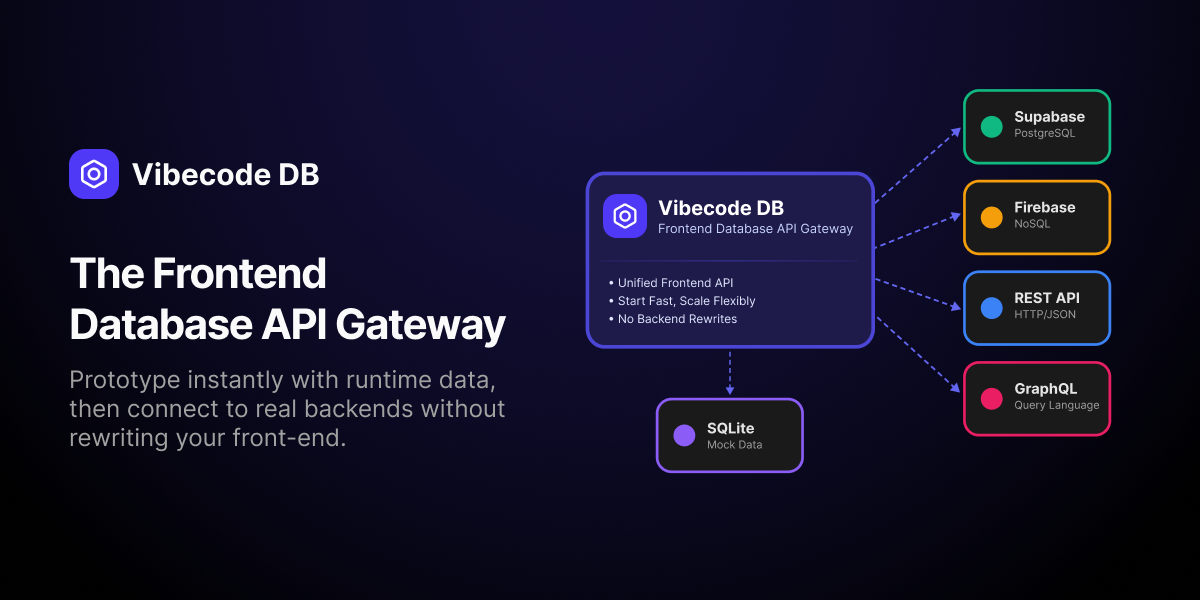
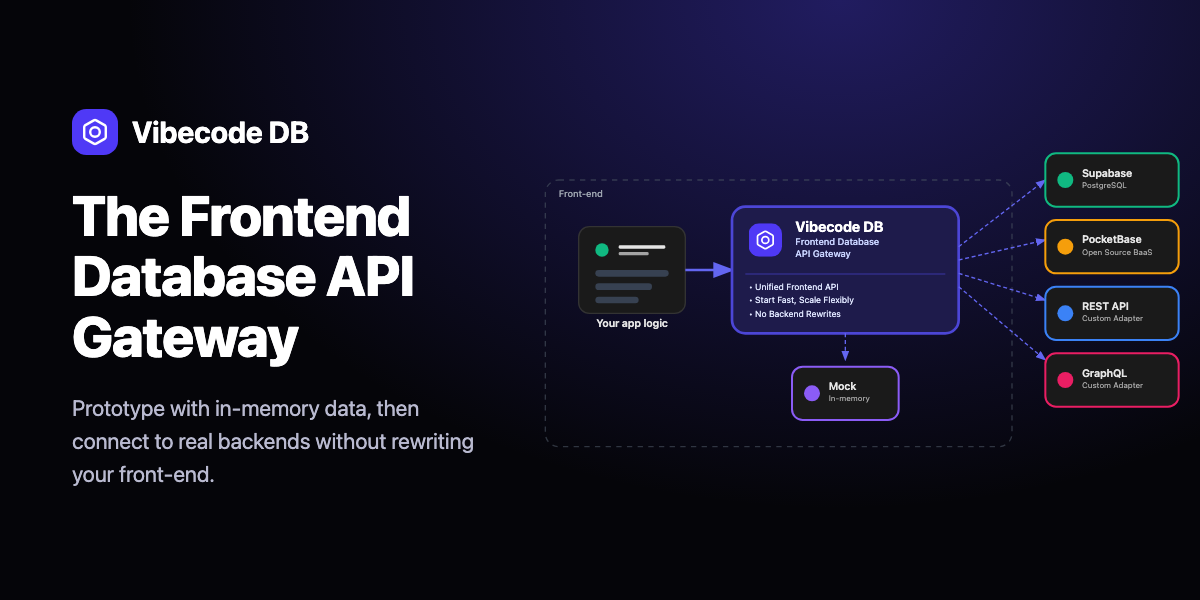
feat(landing): widen backend boxes and refresh OG image
- Diagram: widen the 4 backend boxes (160 -> 200) and extend the
  viewBox so PocketBase's "Open Source BaaS" subtitle no longer
  touches the box edge
- Replace og-image.png with a regenerated 1200x600 card matching the
  current diagram (PocketBase, REST/GraphQL as Custom Adapter, Mock /
  In-memory) and updated tagline

diff --git a/playground/src/components/landing/VibecodeDBDiagram.tsx b/playground/src/components/landing/VibecodeDBDiagram.tsx
@@ -13,7 +13,7 @@ export function VibecodeDBDiagram({
 }: VibecodeDBDiagramProps) {
   return (
     <svg
-      viewBox="80 120 950 480"
+      viewBox="80 120 990 480"
       xmlns="http://www.w3.org/2000/svg"
       className={className}
       width={width}
@@ -88,7 +88,7 @@ export function VibecodeDBDiagram({
 
       {/* Supabase */}
       <g transform="translate(850, 140)">
-        <rect x="0" y="0" width="160" height="80" rx="16" fill="#1a1a1a" stroke="#10b981" strokeWidth="3" />
+        <rect x="0" y="0" width="200" height="80" rx="16" fill="#1a1a1a" stroke="#10b981" strokeWidth="3" />
         <circle cx="30" cy="40" r="12" fill="#10b981" />
         <text x="55" y="35" fill="#e5e5e5" fontFamily="Inter, system-ui, sans-serif" fontSize="16" fontWeight="600">Supabase</text>
         <text x="55" y="52" fill="#a3a3a3" fontFamily="Inter, system-ui, sans-serif" fontSize="12">PostgreSQL</text>
@@ -96,7 +96,7 @@ export function VibecodeDBDiagram({
 
       {/* PocketBase */}
       <g transform="translate(850, 240)">
-        <rect x="0" y="0" width="160" height="80" rx="16" fill="#1a1a1a" stroke="#f59e0b" strokeWidth="3" />
+        <rect x="0" y="0" width="200" height="80" rx="16" fill="#1a1a1a" stroke="#f59e0b" strokeWidth="3" />
         <circle cx="30" cy="40" r="12" fill="#f59e0b" />
         <text x="55" y="35" fill="#e5e5e5" fontFamily="Inter, system-ui, sans-serif" fontSize="16" fontWeight="600">PocketBase</text>
         <text x="55" y="52" fill="#a3a3a3" fontFamily="Inter, system-ui, sans-serif" fontSize="12">Open Source BaaS</text>
@@ -104,7 +104,7 @@ export function VibecodeDBDiagram({
 
       {/* REST API (custom adapter) */}
       <g transform="translate(850, 340)">
-        <rect x="0" y="0" width="160" height="80" rx="16" fill="#1a1a1a" stroke="#3b82f6" strokeWidth="3" />
+        <rect x="0" y="0" width="200" height="80" rx="16" fill="#1a1a1a" stroke="#3b82f6" strokeWidth="3" />
         <circle cx="30" cy="40" r="12" fill="#3b82f6" />
         <text x="55" y="35" fill="#e5e5e5" fontFamily="Inter, system-ui, sans-serif" fontSize="16" fontWeight="600">REST API</text>
         <text x="55" y="52" fill="#a3a3a3" fontFamily="Inter, system-ui, sans-serif" fontSize="12">Custom Adapter</text>
@@ -112,7 +112,7 @@ export function VibecodeDBDiagram({
 
       {/* GraphQL (custom adapter) */}
       <g transform="translate(850, 440)">
-        <rect x="0" y="0" width="160" height="80" rx="16" fill="#1a1a1a" stroke="#e91e63" strokeWidth="3" />
+        <rect x="0" y="0" width="200" height="80" rx="16" fill="#1a1a1a" stroke="#e91e63" strokeWidth="3" />
         <circle cx="30" cy="40" r="12" fill="#e91e63" />
         <text x="55" y="35" fill="#e5e5e5" fontFamily="Inter, system-ui, sans-serif" fontSize="16" fontWeight="600">GraphQL</text>
         <text x="55" y="52" fill="#a3a3a3" fontFamily="Inter, system-ui, sans-serif" fontSize="12">Custom Adapter</text>
